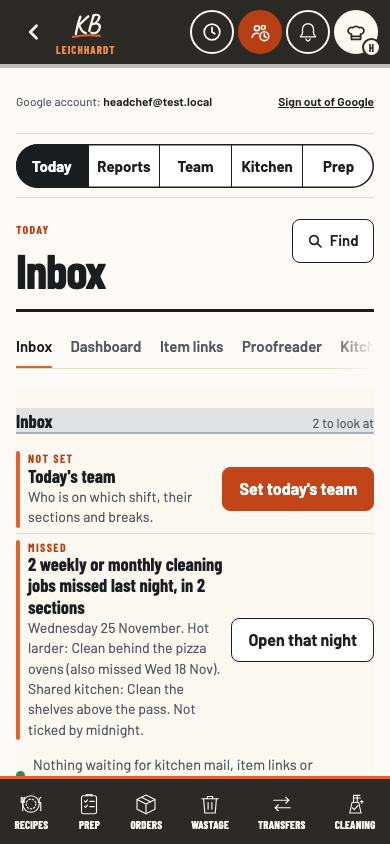
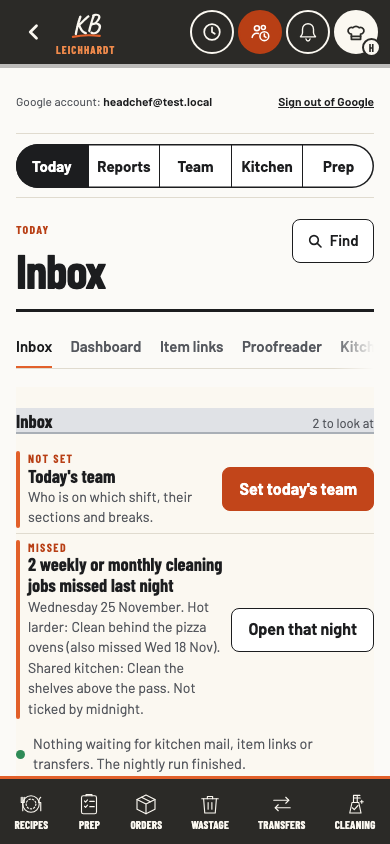
Missed cleaning in the Inbox and Records: the code review's findings
- The Inbox's button makes Records read the board again when Records holds
  an older copy or no count for that night, so the two never disagree.
- The Inbox no longer counts Shared kitchen as a section.
- A section with no kept record of who was on says so, not that the plan
  is too old. A day that kept only some of its jobs never reads as whole
  sections.
- One pass over the board per drawn night for a job's earlier misses.
- The test's colour check now compares with the page's own failure red.

diff --git a/tests/cleaning-results.test.js b/tests/cleaning-results.test.js
@@ -44,7 +44,7 @@ const NAMES = /\b(Lou|Vic|Bo)\b/;
     const p = await inbox(b, base(board()), width);
     const row = await p.evaluate(() => { const e = document.querySelector('.dsh-need-miss'); if (!e) return null; const btn = e.querySelector('button');
       return { tag: e.querySelector('.dsh-tag').textContent, title: e.querySelector('.dsh-need-title').textContent, detail: e.querySelector('.dsh-need-detail').textContent, btn: btn ? btn.textContent : '', cls: btn ? btn.className : '', h: btn ? Math.round(btn.getBoundingClientRect().height) : 0 }; });
-    ok(!!row && row.tag === 'Missed' && row.title === '2 weekly or monthly cleaning jobs missed last night, in 2 sections', width + ': the Inbox has one row for last night\'s missed weekly and monthly jobs (' + JSON.stringify(row && [row.tag, row.title]) + ')');
+    ok(!!row && row.tag === 'Missed' && row.title === '2 weekly or monthly cleaning jobs missed last night', width + ': the Inbox has one row for last night\'s missed weekly and monthly jobs (' + JSON.stringify(row && [row.tag, row.title]) + ')');
     ok(!!row && row.detail.indexOf('Hot larder: Clean behind the pizza ovens (also missed ' + short(wk) + ').') > 0 && row.detail.indexOf('Shared kitchen: Clean the shelves above the pass.') > 0 && /Not ticked by midnight\.$/.test(row.detail),
       width + ': it names each section by its name now and its job, with an earlier miss of the same job (' + (row && row.detail) + ')');
     ok(!!row && !NAMES.test(row.title + row.detail) && !/Hot side|\bhot\b|Fryer oil change/.test(row.title + row.detail), width + ': it names no person, no old section name or id, and no nightly job');
@@ -64,9 +64,11 @@ const NAMES = /\b(Lou|Vic|Bo)\b/;
     ok(secs[2] === 'Grill: 1 of 1 done. | Done: Clean the drawers (Bo, 22:05).' && secs[3] === 'Old section: nothing due but a job that was not possible. | Not possible: Deep clean the oil filter machine (No degreaser).',
       width + ': a section that finished says so, and a job that was not possible is apart, under the name its job was saved with when the section is gone (' + secs.slice(2).join(' // ') + ')');
     const view = await p.evaluate(() => { const v = document.querySelector('.rec-dayv'), miss = v.querySelector('.rec-miss'), fold = v.querySelector('.rec-who');
-      return { red: [...v.querySelectorAll('.rec-adv')].map(e => e.textContent), edge: getComputedStyle(miss).borderLeftColor, ink: getComputedStyle(miss.querySelector('.rec-miss-h')).color, exp: fold.getAttribute('aria-expanded'), h: Math.round(fold.getBoundingClientRect().height), wide: document.documentElement.scrollWidth <= innerWidth }; });
+      return { red: [...v.querySelectorAll('.rec-adv')].map(e => e.textContent), failure: getComputedStyle(v.querySelector('.rec-adv')).color, edge: getComputedStyle(miss).borderLeftColor, ink: getComputedStyle(miss.querySelector('.rec-miss-h')).color,
+        lines: [...miss.querySelectorAll('.rec-line')].map(e => getComputedStyle(e).color), exp: fold.getAttribute('aria-expanded'), h: Math.round(fold.getBoundingClientRect().height), wide: document.documentElement.scrollWidth <= innerWidth }; });
     ok(view.red.length === 1 && /^Missed: Clean behind the pizza ovens, Clean the shelves above the pass, Fryer oil change\.$/.test(view.red[0]), width + ': Records\' own Missed line stays as it is (' + view.red.join(' // ') + ')');
-    ok(view.exp === 'false' && view.h >= 44 && view.wide && view.ink !== view.red && view.edge !== 'rgb(155, 39, 22)', width + ': the block is attention, not failure red; the fold is closed and 44 px tall; no sideways scroll (' + JSON.stringify([view.edge, view.ink, view.h]) + ')');
+    ok(/^rgb/.test(view.failure) && view.ink !== view.failure && view.edge !== view.failure && view.lines.every(c => c !== view.failure), width + ': the block is attention: its edge, heading and lines are not the failure red of Records\' own Missed line (' + JSON.stringify([view.failure, view.edge, view.ink]) + ')');
+    ok(view.exp === 'false' && view.h >= 44 && view.wide, width + ': the fold is closed and 44 px tall; no sideways scroll (' + view.h + ')');
     await p.evaluate(() => document.querySelector('.rec-who').click()); await L.settle(p, 300);
     const who = await p.evaluate(() => ({ lines: [...document.querySelectorAll('.rec-who-list .rec-line')].map(e => e.textContent), exp: document.querySelector('.rec-who').getAttribute('aria-expanded'), label: document.querySelector('.rec-who').textContent, focus: document.activeElement && document.activeElement.className }));
     ok(who.exp === 'true' && who.lines.join(' | ') === 'On the plan: Lou (Dinner). | Picked the section themselves: Vic (a shift no longer on the list).' && /rec-who/.test(who.focus || '') && who.label === 'Hide who was on Hot larder',
@@ -84,7 +86,7 @@ const NAMES = /\b(Lou|Vic|Bo)\b/;
       ok(/Cleaning: 47 of 52 done/.test(printed) && /Missed: Clean behind the pizza ovens/.test(printed), 'and keeps Records\' own cleaning lines');
     }
     // the other shapes a day can have: trimmed, not counted, an older count, not ready
-    const open = async d => { await p.evaluate(dd => { LK_PREP.state.atab = 'records'; }, d); await p.evaluate(() => document.querySelector('[data-p="rec-show"][data-v="fs"]').click()); await L.settle(p, 200);
+    const open = async d => { await p.evaluate(() => document.querySelector('[data-p="rec-show"][data-v="fs"]').click()); await L.settle(p, 200);
       await p.evaluate(() => { const bk = document.querySelector('[data-p="rec-back"]'); if (bk) bk.click(); }); await L.settle(p, 200);
       await p.evaluate(dd => { const r = document.querySelector('.rec-dayrow[data-d="' + dd + '"]'); if (r) r.click(); }, d); await L.settle(p, 300);
       return p.evaluate(() => ({ head: !!document.querySelector('#rec-clean-sec'), miss: document.querySelectorAll('.rec-miss').length, text: (document.querySelector('.rec-clean') || document.querySelector('.rec-dayv')).textContent.replace(/\s+/g, ' ') })); };
@@ -113,6 +115,39 @@ const NAMES = /\b(Lou|Vic|Bo)\b/;
     ok(rowsOk(list) && clearOk(cl), 'Inbox, ' + name + ': it says only what the count knows (' + list.filter(x => /leaning|issed/.test(x)).join(' // ') + ' // ' + cl + ')');
     ok(!p.errors.length, 'Inbox, ' + name + ': no page errors ' + p.errors.join(' | '));
     await p.context().close();
+  }
+  // Records may hold an older board than the Inbox that offers the night: the button reads the board again
+  {
+    const before = base(board({ days: rows({ [y]: null }), at: L.NOW - 30 * 3600000 })), p = await L.open(b, '#/admin', { admin: true, who: '', width: 1280, height: 900, extra: before, wait: 2000 });
+    await L.adminTab(p, 'records'); await L.waitFor(p, () => !!document.querySelector('.rec-days'), null, 8000).catch(() => {});
+    ok(/count not ready/i.test(await p.evaluate(dd => (document.querySelector('.rec-dayrow[data-d="' + dd + '"]') || document.body).textContent, y)), 'Records opened before the nightly run holds no count for last night');
+    await p.evaluate(a => { window.__fake.write(a[0], a[1]); }, [key('analysis', 'dashboard'), board()]);
+    await p.evaluate(() => document.querySelector('.a-quick[data-v="inbox"]').click()); await L.settle(p, 600);
+    await p.evaluate(() => { const r = document.querySelector('[data-dsh="refresh"]'); if (r) r.click(); });
+    await L.waitFor(p, () => !!document.querySelector('.dsh-need-miss button'), null, 8000).catch(() => {});
+    ok(!!(await p.$('.dsh-need-miss button')), 'the Inbox, read after the run, offers last night');
+    await p.evaluate(() => { const x = document.querySelector('.dsh-need-miss button'); if (x) x.click(); });
+    await L.waitFor(p, () => !!document.querySelector('#rec-clean-sec'), null, 8000).catch(() => {}); await L.settle(p, 300);
+    ok(await p.evaluate(() => !!document.querySelector('.rec-miss') && document.activeElement.id === 'rec-clean-sec' && !/count not ready/i.test(document.querySelector('.rec-dayv').textContent)), 'its button makes Records read the board again, so the night shows its missed jobs and not "Count not ready"');
+    ok(!p.errors.length, 'older Records board: no page errors ' + p.errors.join(' | '));
+    await p.context().close();
+  }
+  // a section with a miss but no kept record of who was on; and a day that kept only some of its jobs
+  {
+    const noRo = whole({ r: [{ k: 'w3', t: 'Clean the drawers', s: 'grill', sn: 'Grill', st: 'm' }], rN: 1, rn: { due: 1, done: 0, miss: 1, unable: 0, wait: 0 }, missN: 1, miss: ['Clean the drawers'] });
+    const partial = whole({ r: [pizza('m'), { k: 'w3', t: 'Clean the drawers', s: 'grill', sn: 'Grill', st: 'd', by: 'Bo', at: '22:05' }], rN: 5, rn: { due: 5, done: 3, miss: 2, unable: 0, wait: 0 }, missN: 2, miss: ['Clean behind the pizza ovens', 'Another'] });
+    const p = await L.open(b, '#/admin', { admin: true, who: '', width: 1280, height: 900, extra: base(board({ days: rows({ [y]: noRo, [day(2)]: partial }) })), wait: 2000 });
+    await L.adminTab(p, 'records'); await L.waitFor(p, () => !!document.querySelector('.rec-days'), null, 8000).catch(() => {});
+    await p.evaluate(dd => document.querySelector('.rec-dayrow[data-d="' + dd + '"]').click(), y); await L.settle(p, 300);
+    await p.evaluate(() => document.querySelector('.rec-who').click()); await L.settle(p, 300);
+    ok((await p.$$eval('.rec-who-list .rec-line', els => els.map(e => e.textContent))).join('|') === 'Who was on was not kept for this section.', 'a section with no record of who was on says so, and not that the plan is too old');
+    await p.evaluate(dd => { document.querySelector('[data-p="rec-back"]').click(); document.querySelector('.rec-dayrow[data-d="' + dd + '"]').click(); }, day(2)); await L.settle(p, 300);
+    const part = await block(p), top = await p.evaluate(() => document.querySelector('#rec-clean-sec').nextElementSibling.textContent);
+    ok(/3 more jobs are counted but not listed, so each section below shows only the jobs listed\./.test(top) && /^Hot larder: at least 1 missed /.test(part[0]) && /^Grill: the jobs listed\. /.test(part[1]), 'a day that kept only some of its jobs never reads as whole sections (' + part.join(' // ') + ')');
+    const inb = await inbox(b, base(board({ days: rows({ [y]: partial }) })), 1280), list = await needs(inb);
+    ok(list.some(x => /^Missed2 weekly or monthly cleaning jobs missed last night/.test(x) && !/Hot larder|pizza/.test(x)), 'and the Inbox gives the number without sections for it (' + list.filter(x => /issed/.test(x)).join(' // ') + ')');
+    ok(!p.errors.length && !inb.errors.length, 'partial and unkept: no page errors');
+    await inb.context().close(); await p.context().close();
   }
   L.report(R); await b.close();
 })().catch(e => { console.error(e); process.exit(1); });

diff --git a/js/prep.js b/js/prep.js
@@ -7176,9 +7176,13 @@
       /* Results by section, step 2 (26 Nov 2026): the Inbox's Missed row opens that night in Records, at its weekly
          and monthly jobs. Its own method, so a dashboard file newer than this shell finds no method and draws no
          button, instead of a button that does nothing. Records reads the board itself when it opens (1 read). */
-      openRecords: function (day) {
+      openRecords: function (day, boardAt) {
         if (!/^\d{4}-\d\d-\d\d$/.test(day)) return;
         recCheck();   // a first visit starts Records' memory afresh: do that before choosing the day
+        // Records may hold an older copy of the board than the Inbox that offered this night (opened before the 03:00
+        // run, say): then it reads the board again, so the two pages never disagree about one night. 1 read.
+        var held = REC.board && recRows()[day], heldCount = held && held.fs && held.fs.c;
+        if (REC.board && REC.state !== 'loading' && (!heldCount || (typeof boardAt === 'number' && boardAt > (+REC.board.at || 0)))) { REC.board = null; REC.state = ''; REC.days = {}; }
         REC.day = day; REC.month = day.slice(0, 7); REC.all = false; REC.jump = true;
         S.atab = 'records'; S.agLast = S.agLast || {}; S.agLast[adminGroupOf('records')[0]] = 'records'; lsSet('lk.prep.atab', 'records'); draw(); adminToTop(); recJump();
       },
@@ -7630,30 +7634,35 @@
      no person has a count. Reads nothing: it is all on the board Records already holds. Admin only, like the board. */
   function recSecName(id, saved) {
     if (!id) return 'Shared kitchen';
+    // by id over the whole saved list: kitSecs() leaves out a section that is switched off, and a past night may name one
     var s = ((S.config && S.config.kitSecs) || []).filter(function (x) { return x && x.id === id && String(x.name || '').trim(); })[0];
-    return s ? String(s.name).trim() : (typeof saved === 'string' && saved.trim() ? saved.trim().slice(0, 40) : 'A section no longer on the list');
+    return s ? String(s.name).replace(/\s+/g, ' ').trim().slice(0, 40) : (typeof saved === 'string' && saved.trim() ? saved.trim().slice(0, 40) : 'A section no longer on the list');
   }
   function recShiftName(id) {
     if (!id) return '';
+    // by id over the whole saved list: kitShifts() leaves out a shift that is switched off, and a past night may name one
     var s = ((S.config && S.config.kitShifts) || []).filter(function (x) { return x && x.id === id && String(x.name || '').trim(); })[0];
-    return s ? String(s.name).trim() : 'a shift no longer on the list';
+    return s ? String(s.name).replace(/\s+/g, ' ').trim().slice(0, 40) : 'a shift no longer on the list';
   }
   // the weekly and monthly jobs a counted day keeps one by one, or null (not counted, an older count, or trimmed)
   function recRound(c) { return c && !c.nc && !c.cut && Array.isArray(c.r) ? c.r.filter(function (x) { return x && typeof x.k === 'string' && typeof x.t === 'string'; }) : null; }
   // one job on the days before this one: when it was missed (newest first) and when it was last done. Only a day
   // that kept the job counts: a day not counted, trimmed, or where the job was not due says nothing.
-  function recBefore(key, day) {
-    var rows = recRows(), out = { missed: [], done: null };
+  // Built once for a drawn night (one pass over the board), then read per job: { key: { missed: [days], done } }.
+  function recBefore(day) {
+    var rows = recRows(), out = {};
     Object.keys(rows).filter(function (d) { return d < day; }).sort().reverse().forEach(function (d) {
-      var list = recRound(rows[d].fs && rows[d].fs.c) || [], x = list.filter(function (j) { return j.k === key; })[0];
-      if (!x) return;
-      if (x.st === 'm' && out.missed.length < 3) out.missed.push(d);
-      if (x.st === 'd' && !out.done) out.done = { day: d, by: typeof x.by === 'string' ? x.by : '', at: typeof x.at === 'string' ? x.at : '' };
+      (recRound(rows[d].fs && rows[d].fs.c) || []).forEach(function (x) {
+        var o = out[x.k] = out[x.k] || { missed: [], done: null };
+        if (x.st === 'm' && o.missed.length < 3) o.missed.push(d);
+        if (x.st === 'd' && !o.done) o.done = { day: d, by: typeof x.by === 'string' ? x.by : '', at: typeof x.at === 'string' ? x.at : '' };
+      });
     });
     return out;
   }
   function recWhoWords(o, sec) {
-    if (!o || o.k === 'x') return ['Not kept for this day. The nightly count reads the last 8 weeks of plans.'];
+    if (!o) return ['Who was on was not kept for this section.'];
+    if (o.k === 'x') return ['Not kept for this day. The nightly count reads the last 8 weeks of plans.'];
     var w = Array.isArray(o.w) ? o.w.filter(function (x) { return x && typeof x.n === 'string'; }) : [];
     var say = function (src) { return w.filter(function (x) { return x.by === src; }).map(function (x) { var sh = recShiftName(typeof x.sh === 'string' ? x.sh : ''); return x.n + (sh ? ' (' + sh + ')' : ''); }).join(', '); };
     var plan = say('p'), pick = say('k'), out = [];
@@ -7671,12 +7680,14 @@
     list.forEach(function (x) { var s = typeof x.s === 'string' ? x.s : ''; if (!by[s]) { by[s] = []; secs.push(s); } by[s].push(x); });
     var missed = function (s) { return by[s].filter(function (x) { return x.st === 'm'; }).length; };
     secs.sort(function (a, b) { return (missed(b) ? 1 : 0) - (missed(a) ? 1 : 0) || (a ? 0 : 1) - (b ? 0 : 1); });
-    var short = function (d) { return recShort(d) + ' ' + parseYmd(d).toLocaleDateString('en-AU', { month: 'short' }); };
+    var short = function (d) { return recShort(d) + ' ' + parseYmd(d).toLocaleDateString('en-AU', { month: 'short' }); }, before = recBefore(day);
+    // the count keeps at most 40 jobs a day: past that, a section's lines are only the jobs listed, and say so
+    var part = c.rN > list.length;
     var jobLine = function (x) {
       if (x.st === 'd') return 'Done: ' + x.t + (x.by ? ' (' + x.by + (x.at ? ', ' + x.at : '') + ')' : '') + '.';
       if (x.st === 'u') return 'Not possible: ' + x.t + (x.n ? ' (' + x.n + ')' : '') + '.';
       if (x.st === 'w') return 'Awaiting Pass check: ' + x.t + '.';
-      var b = recBefore(x.k, day);
+      var b = before[x.k] || { missed: [], done: null };
       return 'Missed: ' + x.t + '. Not ticked by midnight.' + (b.missed.length ? ' Also missed ' + b.missed.map(short).join(' and ') + '.' : '') +
         (b.done ? ' Last done ' + short(b.done.day) + (b.done.by ? ' (' + b.done.by + (b.done.at ? ', ' + b.done.at : '') + ')' : '') + '.' : '');
     };
@@ -7684,14 +7695,14 @@
     var out = secs.map(function (s) {
       var name = recSecName(s, (by[s][0] || {}).sn), jobs = by[s], m = missed(s), due = jobs.filter(function (x) { return x.st !== 'u'; }).length;
       var lines = jobs.slice().sort(function (a, b) { return (a.st === 'm' ? 0 : 1) - (b.st === 'm' ? 0 : 1); }).map(function (x) { return '<p class="rec-line">' + esc(jobLine(x)) + '</p>'; }).join('');
-      if (!m) return '<div class="rec-sec"><p class="rec-line"><b>' + esc(name) + ':</b> ' + esc(due ? jobs.filter(function (x) { return x.st === 'd'; }).length + ' of ' + due + ' done.' : 'nothing due but a job that was not possible.') + '</p>' + lines + '</div>';
+      if (!m) return '<div class="rec-sec"><p class="rec-line"><b>' + esc(name) + ':</b> ' + esc(part ? 'the jobs listed.' : due ? jobs.filter(function (x) { return x.st === 'd'; }).length + ' of ' + due + ' done.' : 'nothing due but a job that was not possible.') + '</p>' + lines + '</div>';
       var key = day + '|' + s, open = !!REC.who[key], o = ro.filter(function (x) { return x && x.s === s; })[0];
-      return '<div class="rec-sec rec-miss"><p class="rec-miss-h">' + esc(name) + ': ' + m + ' of ' + due + ' missed</p>' + lines +
+      return '<div class="rec-sec rec-miss"><p class="rec-miss-h">' + esc(name) + ': ' + (part ? 'at least ' + m + ' missed' : m + ' of ' + due + ' missed') + '</p>' + lines +
         (s ? '<button type="button" class="tm-fold rec-who" data-p="rec-who" data-s="' + esc(s) + '" aria-expanded="' + open + '">' + (open ? 'Hide who was on ' : 'Who was on ') + esc(name) + '</button>' +
           (open ? '<div class="rec-who-list">' + recWhoWords(o, name).map(function (l) { return '<p class="rec-line">' + esc(l) + '</p>'; }).join('') + '</div>' : '')
           : '<p class="rec-line hint">A shared job has no section, so nobody is listed.</p>') + '</div>';
     }).join('');
-    return head + '<p class="rec-line">' + esc(whole) + (c.rN > list.length ? ' ' + (c.rN - list.length) + ' more jobs are counted but not listed.' : '') + '</p>' + out;
+    return head + '<p class="rec-line">' + esc(whole) + (part ? ' ' + (c.rN - list.length) + ' more jobs are counted but not listed, so each section below shows only the jobs listed.' : '') + '</p>' + out;
   }
   // after the Inbox opened this night: land on the block, once the day is drawn (the board may still be loading)
   function recJump() {

diff --git a/js/admin-dashboard.js b/js/admin-dashboard.js
@@ -243,6 +243,8 @@
      The open kitchen mail is listed with the Kitchen mail page's own rows, ticked off and given a new "how soon" in
      place; every other row opens its page. Shown before the numbers, so it never waits for the nightly record. ---------- */
   var MAIL_MAX = 8;
+  // the kitchen day before a kitchen day: plain date arithmetic on the day the book gave (api.today()), like dow() and daysSince()
+  function dayBefore(day) { return new Date(Date.parse(day + 'T12:00:00Z') - 86400000).toISOString().slice(0, 10); }
   function daysSince(day, today) { return Math.max(0, Math.round((Date.parse(today + 'T12:00:00Z') - Date.parse(day + 'T12:00:00Z')) / 86400000)); }
   /* One Inbox row: its state word, title, detail and the button to the page where it is done. The laptop picked-row pane
      (8 Nov 2026) was removed on 10 Nov 2026 (head chef, docs/admin-dashboard-restyle-options/brief.md): it repeated the row. */
@@ -260,7 +262,7 @@
      this shell can do that (api.openRecords). */
   function cleanNeed(dd, today) {
     if (!dd || !dd.cleanFrom || !Array.isArray(dd.days)) return null;
-    var y = new Date(Date.parse(today + 'T12:00:00Z') - 86400000).toISOString().slice(0, 10);
+    var y = dayBefore(today);
     if (y < dd.cleanFrom) return null;
     var say = function (day, o) { return new Date(day + 'T12:00:00Z').toLocaleDateString('en-AU', Object.assign({ timeZone: 'UTC' }, o)); };
     var when = say(y, { weekday: 'long', day: 'numeric', month: 'long' });
@@ -278,13 +280,14 @@
       var name = function (s) { return api.secName ? api.secName(s, by[s][0].sn) : (s ? by[s][0].sn || 'A section' : 'Shared kitchen'); };
       // the same job missed on an earlier night that kept it, by its key: the latest one
       var also = function (x) { var d = ''; dd.days.forEach(function (r) { if (r.day < y && r.day > d && r.c && r.c.r && r.c.r.some(function (j) { return j.k === x.k && j.st === 'm'; })) d = r.day; }); return d ? ' (also missed ' + say(d, { weekday: 'short', day: 'numeric', month: 'short' }).replace(',', '') + ')' : ''; };
-      title = secs.length === 1 ? name(secs[0]) + ': ' + m + jobs + ' missed last night' : m + ' weekly or monthly cleaning jobs missed last night, in ' + secs.length + ' sections';
+      // one place named in the title; with more, the detail names each (a shared job has no section, so no count of sections)
+      if (secs.length === 1) title = name(secs[0]) + ': ' + m + jobs + ' missed last night';
       var shown = 0;
       detail += ' ' + secs.map(function (s) { var js = by[s].filter(function () { return shown++ < 4; }); return js.length ? name(s) + ': ' + js.map(function (x) { return x.t + also(x); }).join('; ') + '.' : ''; }).filter(Boolean).join(' ') + (m > 4 ? ' And ' + (m - 4) + ' more.' : '');
     }
     detail += ' Not ticked by midnight.';
     return { html: '<li class="dsh-need dsh-need-miss"><span class="dsh-need-mark" aria-hidden="true"></span><div><p class="dsh-tag dsh-tag-att">Missed</p><p class="dsh-need-title">' + esc(title) + '</p><p class="dsh-need-detail">' + esc(detail) + '</p></div>' +
-      (api.openRecords ? '<button type="button" class="btn" data-dsh="records" data-day="' + y + '">Open that night</button>' : '') + '</li>' };
+      (api.openRecords ? '<button type="button" class="btn" data-dsh="records" data-day="' + y + '" data-at="' + n(dd.at) + '">Open that night</button>' : '') + '</li>' };
   }
   function needsHTML(inbox) {
     var nd = api.needs ? api.needs() : {}, rows = [], mailDetails = '', clear = [], today = api.today();
@@ -605,7 +608,7 @@
       watchSet(w2.list.filter(function (x, j) { return j !== i; }), 'Stopped watching ' + gone + '.'); return;
     }
     // a tile of today's numbers on the Inbox says its own period (data-days="7"), the Dashboard's follow the period chips
-    if (a === 'records') { if (api.openRecords) api.openRecords(el.getAttribute('data-day') || ''); return; }
+    if (a === 'records') { if (api.openRecords) api.openRecords(el.getAttribute('data-day') || '', +el.getAttribute('data-at') || 0); return; }
     if (a === 'open') { var t = el.getAttribute('data-t'); if (['insights', 'waste', 'transfers', 'mail', 'minutes', 'cutoffs', 'references', 'team'].indexOf(t) >= 0) api.open(t, el.getAttribute('data-days') === '7' ? 7 : state.period); }
   }
   // Typing in the watch list's Find box narrows the choices (the admin panel keeps focus and cursor through redraws).

diff --git a/docs/cleaning-tracking-options/brief.md b/docs/cleaning-tracking-options/brief.md
@@ -374,7 +374,7 @@ Implemented app on the click-test stand-in, synthetic data, 390 x 844, 768 x 900
 
 | | Preview (`m6`, `m7`) | Built |
 | --- | --- | --- |
-| The Inbox row | "Not ticked", one section in the title | "Missed", the head chef's word. One row for the night: one section named in the title, or "2 weekly or monthly cleaning jobs missed last night, in 2 sections", with each section and job in the detail |
+| The Inbox row | "Not ticked", one section in the title | "Missed", the head chef's word. One row for the night: one section named in the title, or "2 weekly or monthly cleaning jobs missed last night", with each section and job in the detail (a shared job has no section, so the row does not count sections) |
 | Inbox, screens long at 390 | 1.4 | 1.4; the row is whole on the first screen at all three widths; its button is 143 x 44 px |
 | Records night, screens long at 390 | 1.8 | 1.9 |
 | Where the miss is when opened from the Inbox, at 390 | Below the first screen, under today's red "Missed" line | The page lands on the heading, 149 px from the top, with the missed section's block whole on screen and the heading in focus |
